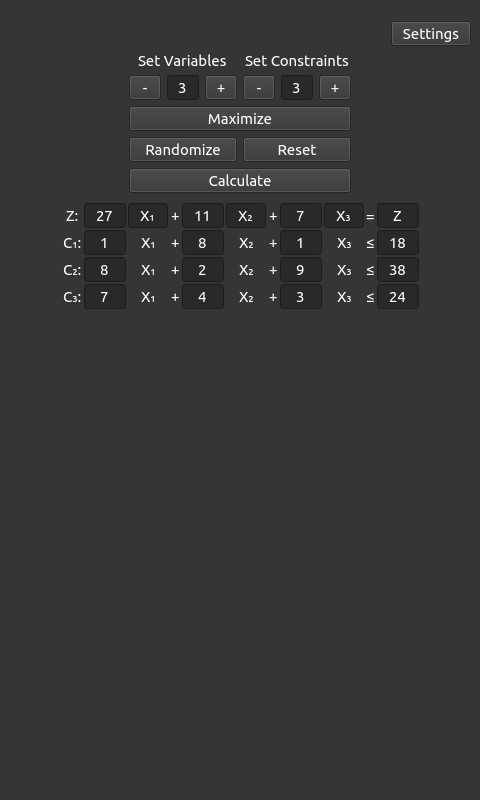
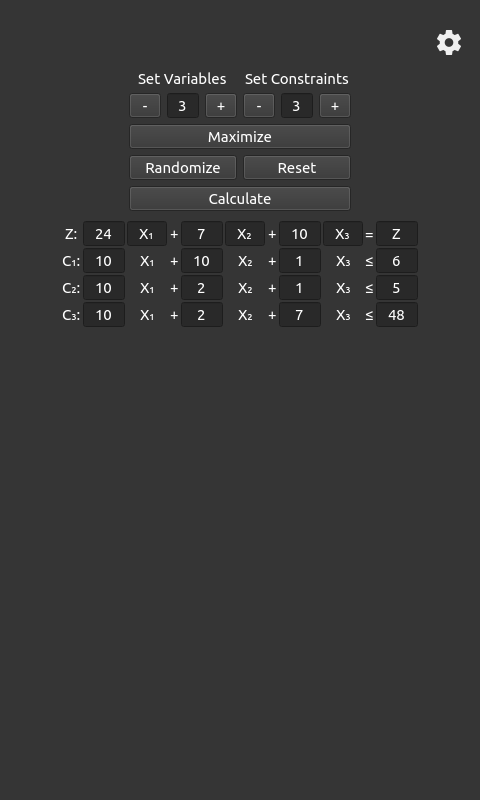
GitHub repo linked from app. Readability improvements. Updated screenshots.

diff --git a/simplex.py b/simplex.py
@@ -4,6 +4,7 @@ Made with PyQt5
 """
 
 import sys
+import webbrowser
 
 from PyQt5.QtWidgets import (QApplication, QWidget, QPushButton, QLabel, QLineEdit, QSpacerItem, QSizePolicy,
                              QFrame, QGridLayout, QScrollArea, QHBoxLayout, QVBoxLayout)
@@ -187,8 +188,8 @@ class SimplexCalculator:
         font_size_button = SSettingsButton(self.window, "Font Size")
         font_size_button.set_line_edit()
         font_size_button.line_edit.setText(str(self.DEFUALT_FONT_SIZE))
-        # Limit range to 12 through 24
         font_size_button.line_edit.editingFinished.connect(lambda: (
+            # Limit range to 12 through 24
             self.QLE_valid_range(font_size_button.line_edit, 12, 24),
             self.change_font_size(int(font_size_button.line_edit.text())),
             font_size_button.line_edit.clearFocus()))
@@ -198,7 +199,7 @@ class SimplexCalculator:
         # Opens GitHub repo.
         github_button = SSettingsButton(self.window, "Visit Simplex Calculator on GitHub")
         github_button.set_icon("github.png")
-        github_button.clicked.connect(lambda: print("Pressing Github Button. TODO: Replace this."))
+        github_button.clicked.connect(self.open_github)
         self.icon_buttons.append(github_button)
 
         ### Layouts and Widget Placement
@@ -386,14 +387,13 @@ class SimplexCalculator:
         """Toggles between maximize/minimize when self.max_min_button is pressed,
         changing inequality labels and dictating simplex calulation approach.
         """
-        if self.is_maximize:
-            self.max_min_button.setText("Minimize")
-            # Index slice to exclude first element as that is the objective function's "=".
-            for i in range(len(self.simplex_setup.SLEIneqs))[1:]:
+        # Index slice to exclude first element as that is the objective function's "=".
+        for i in range(len(self.simplex_setup.SLEIneqs))[1:]:
+            if self.is_maximize:
+                self.max_min_button.setText("Minimize")
                 self.simplex_setup.SLEIneqs[i].label.setText("≥")
-        else:
-            self.max_min_button.setText("Maximize")
-            for i in range(len(self.simplex_setup.SLEIneqs))[1:]:
+            else:
+                self.max_min_button.setText("Maximize")
                 self.simplex_setup.SLEIneqs[i].label.setText("≤")
         self.is_maximize = not self.is_maximize
 
@@ -404,7 +404,8 @@ class SimplexCalculator:
         if self.simplex_solve is not None:
             self.simplex_solve.delete()
         self.change_screens(self.soln_screen)
-        self.simplex_solve = SimplexSolve(self.window, self.soln_table_layout, self.simplex_setup, self.soln_step_label, self.is_maximize)
+        self.simplex_solve = SimplexSolve(self.window, self.soln_table_layout, self.simplex_setup,
+            self.soln_step_label, self.is_maximize)
 
     def open_settings(self) -> None:
         """Open settings menu.
@@ -431,9 +432,9 @@ class SimplexCalculator:
             button.icon.color_swap(self.is_dark_mode)
 
     def change_font_size(self, font_size: int) -> None:
-        """Changes font size via global style sheet  limited user input.
+        """Changes font size via global style sheet from limited user input.
 
-        Connected to font_size_button.
+        Connected to font_size_button in settings screen.
 
         Parameters
         ---
@@ -444,11 +445,11 @@ class SimplexCalculator:
         self.window.setStyleSheet(self.font_style + self.style_sheets[self.is_dark_mode])
 
     def open_github(self) -> None:
-        """Opens github repo in default browser.
+        """Opens Simplex Calculator's GitHub repo in the default browser.
 
         https://github.com/nonetypes/SimplexCalculator
         """
-        pass
+        webbrowser.get().open("https://github.com/nonetypes/SimplexCalculator", new = 2)
 
     def change_screens(self, new_screen: QFrame, is_going_back: bool = False) -> None:
         """Changes frame visibility to new QFrame.
@@ -468,13 +469,6 @@ class SimplexCalculator:
         new_screen.setDisabled(False)
         new_screen.show()
 
-        # When changing from settings screen back to solutions screen, prevent back button from going back to settings.
-        if self.current_screen == self.settings_screen and new_screen == self.soln_screen:
-            self.previous_screen = self.setup_screen
-        else:
-            self.previous_screen = self.current_screen
-        self.current_screen = new_screen
-
         # Create animation to make new screen "slide" into view.
         # https://forum.qt.io/topic/3709/simple-animation-not-working/3
         self.animation = QPropertyAnimation(new_screen, b"geometry")
@@ -485,13 +479,20 @@ class SimplexCalculator:
         if is_going_back:
             self.animation.setStartValue(QRect(-self.window.width(), self.current_screen.y(),
                 self.window.width(), self.window.height()))
-            self.animation.setEndValue(self.current_screen.geometry())
         # If back button was not pressed, screen will appear to slide in from right.
         else:
             self.animation.setStartValue(QRect(self.window.width(), self.current_screen.y(),
                 self.window.width(), self.window.height()))
-            self.animation.setEndValue(self.current_screen.geometry())
+
+        self.animation.setEndValue(self.current_screen.geometry())
         self.animation.start()
+
+        # When changing from settings screen back to solutions screen, prevent back button from going back to settings.
+        if self.current_screen == self.settings_screen and new_screen == self.soln_screen:
+            self.previous_screen = self.setup_screen
+        else:
+            self.previous_screen = self.current_screen
+        self.current_screen = new_screen
 
     def key_pressed(self, event):
         """Override function for main window.

diff --git a/solve.py b/solve.py
@@ -21,6 +21,8 @@ class SimplexSolve:
         layout: PyQt QGridLayout
             soln_table_layout where labels are added.
         simplex_setup: SimplexSetup
+        soln_step_label: PyQt QLabel
+            The label which displays the current step number of the total solution steps.
         is_maximize: bool
             Determines whether problem is maximization or minimization and dictates certain solution steps and labels.
             Set with maximize/minimize button on setup screen.
@@ -42,7 +44,7 @@ class SimplexSolve:
     def solve(self) -> None:
         """Applies the simplex method.
         """
-        def is_negative(matrix_row) -> bool:
+        def has_negative(matrix_row) -> bool:
             """Tests weather there is a negative number in a list of floats/ints.
             Stopping condition for simplex method.
             """
@@ -55,20 +57,19 @@ class SimplexSolve:
         matrix = deepcopy(self.soln_matrices[-1])
 
         # Continue until the bottom row is all positive.
-        while is_negative(matrix[-1]):
+        while has_negative(matrix[-1]):
             pivot_row, pivot_col, pivot = self.find_pivot(matrix)
             # Make pivot value 1 by dividing the pivot row by the pivot value.
             matrix[pivot_row] = [x/pivot for x in matrix[pivot_row]]
 
-            # TODO: Rephrase these comments to make more clear.
             # Clear the pivot column, leaving only the pivot (now 1) and making the rest zeros:
-            # Loop through each row -- excluding pivot row -- and add each component in the row by the
-            # corresponding component of the pivot row multiplied by the value of the row's component
-            # in the pivot column and flip sign of result.
+            # Loop through each row -- excluding pivot row -- and subtract each component in the row by the
+            # the scalar, which will make the pivot column component zero, multiplied by the
+            # corresponding component in the pivot row.
             for row_vector in matrix[:pivot_row] + matrix[pivot_row + 1:]:
-                val = row_vector[pivot_col]
+                scalar = row_vector[pivot_col]
                 for i in range(len(row_vector)):
-                    row_vector[i] += (-1)*val*matrix[pivot_row][i]
+                    row_vector[i] -= scalar*matrix[pivot_row][i]
             # Save completed step.
             self.soln_matrices.append(matrix)
             # Get copy of completed step.

diff --git a/styles.py b/styles.py
@@ -1,26 +1,8 @@
-"""Style sheet themes for Simplex Calculator.
+"""Color definitions and style sheets for Simplex Calculator.
 """
 
-def replace_colors(style: str, color_map: dict) -> str:
-    """Replaces color variable names in a PyQt style sheet (multi-line string) with hexidecimal color values.
-
-    Parameters
-    ---
-    style: string
-        Must be properly formatted as a PyQt style sheet
-        https://doc.qt.io/qtforpython/overviews/stylesheet-examples.html
-    color_map: dictionary
-        Used to replace variable names with hexidecimal values
-
-    Returns
-    ---
-    str
-        A style sheet string for PyQt widget.
-    """
-    for key, val in color_map.items():
-        style = style.replace(key, val)
-    return style
-
+SIMPLEX_ICON_LIGHT = "#323232"
+SIMPLEX_ICON_DARK = "#F0F0F0"
 
 light_map = {
     "bg_prime": "#F0F0F0",
@@ -31,7 +13,7 @@ light_map = {
     "border_sub": "#B9B9B9",
     "button_select": "#F0F0F0",
     "icon-select": "#D9D9D9",
-    "focus_color": "#FFFFFF"
+    "focus_color": "#FFFFFF",
 }
 
 dark_map = {
@@ -43,10 +25,8 @@ dark_map = {
     "border_sub": "#292929",
     "button_select": "#353535",
     "icon-select": "#424242",
-    "focus_color": "#292929"
+    "focus_color": "#292929",
 }
-
-        # font-size: 16px;
 
 SIMPLEX_STYLE_SHEET = ("""
     QWidget {
@@ -125,8 +105,30 @@ SIMPLEX_STYLE_SHEET = ("""
     }
 """)
 
+def replace_colors(style: str, color_map: dict) -> str:
+    """Replaces color variable names in a PyQt style sheet (multi-line string) with hexidecimal color values.
+
+    Parameters
+    ---
+    style: string
+        Must be properly formatted as a PyQt style sheet
+        https://doc.qt.io/qtforpython/overviews/stylesheet-examples.html
+    color_map: dictionary
+        Used to replace variable names with hexidecimal values
+
+    Returns
+    ---
+    str
+        A style sheet string for PyQt widget.
+    """
+    for key, val in color_map.items():
+        style = style.replace(key, val)
+    return style
+
 SIMPLEX_STYLE_LIGHT = replace_colors(SIMPLEX_STYLE_SHEET, light_map)
 SIMPLEX_STYLE_DARK = replace_colors(SIMPLEX_STYLE_SHEET, dark_map)
 
-SIMPLEX_ICON_LIGHT = "#323232"
-SIMPLEX_ICON_DARK = "#F0F0F0"
+
+if __name__ == "__main__":
+    from simplex import SimplexCalculator
+    simplex = SimplexCalculator()

diff --git a/setup.py b/setup.py
@@ -77,7 +77,8 @@ class SimplexSetup:
         # Adding variable and associated constraint widgets.
         if edit_var_num > crnt_var_num:
             for col in range(crnt_var_num, edit_var_num):
-                # Create constraints -- SLEVar object handles all constraint's in its column for variable name association.
+                # Create constraints
+                # SLEVar object handles all constraint's in its column for variable name association.
                 constraint_col = []
                 for row in range(edit_con_num):
                     # Add 1 to row to account for objective function row.
@@ -101,6 +102,7 @@ class SimplexSetup:
         order is set to order in which widgets are added to the main PyQt QWidget window.
         """
         # To correctly set tab order, widgets must be set in the same order as the intended tab order.
+        # e.g. This will NOT work as intended: .setTabOrder(B, C) then .setTabOrder(A, B)
 
         # Get a matrix of the objects themselves.
         matrix = self.get_fields(False, False)
@@ -177,11 +179,12 @@ class SimplexSetup:
         for i, widget in enumerate(self.SLEVars):
             matrix[i].append(get_component(widget))
 
-        # Value of objective inequality field should always be 0 when not the object itself as field is for naming purposes.
+        # Value of objective inequality field should always be 0
+        # when not the object itself as field is for naming purposes.
         component = 0.0 if is_floats else self.SLEIneqs[0]
         matrix[-1].append(component)
 
-        # Since matrix is currenlty the transpose, transpose it to get original matrix.
+        # Since matrix is currenlty the transpose, transpose it to get the non-transposed matrix.
         if not transpose:
             # https://stackoverflow.com/a/4937526
             matrix = list(map(list, zip(*matrix)))

diff --git a/main.py b/main.py
@@ -6,17 +6,23 @@
 # Simplex Method Calculator for educational purposes.
 # George Dantzig's simplex linear programming algorithm for solving optimization problems.
 #
-# TODO: Confirm minimize is functioning as intended.
-#       Resolve error when objective function has a value, but corresponding contraint column has 0s.
-#       Redo setup screen buttons with icons.
-#       Add header to screens which displays name and preserves settings/back buttons?
-#       More detailed README.md with screenshots and examples
-#       Replace icons.
-#       Settings:
-#           Add option to display floats instead of fractions to a given amount of decimal points
-#           Link to github
-#           Option to display solution steps on a single page
-#           Donate button?
+# TODO:
+# More detailed README.md with screenshots and examples
+## Simplex Funcionality
+# Confirm minimize is functioning as intended.
+# Resolve error when objective function has a value, but corresponding contraint column has 0s.
+# Allow negative numbers as input for constraint fields (and objetive function?)
+# Allow ability to switch inequalites of contraints.
+## UI
+# Redo setup screen buttons with icons.
+# Add header to screens which displays name and preserves settings/back buttons?
+# Allow user to name contraint rows.
+# Replace icons with own alternatives.
+# Add Dark mode icon and font size icon.
+# Settings:
+#   Add option to display floats instead of fractions to a given amount of decimal points.
+#   Option to display solution steps on a single page?
+#   Donate button?
 
 from simplex import SimplexCalculator
 

diff --git a/classes.py b/classes.py
@@ -9,7 +9,7 @@ SLEIneq: QLineEdit child
 from os import path
 
 from PyQt5.QtWidgets import (QWidget, QPushButton, QLineEdit, QLabel, QGridLayout, QComboBox,
-                            QToolButton, QSizePolicy, QHBoxLayout, QVBoxLayout)
+                             QToolButton, QSizePolicy, QHBoxLayout, QVBoxLayout)
 from PyQt5.QtGui import QRegExpValidator, QRegion, QPixmap, QColor, QIcon, QPixmap
 from PyQt5.QtCore import Qt, QRegExp
 
@@ -174,9 +174,7 @@ class SSettingsButton(QToolButton):
         # self.focusOutEvent = focus_out
         # If space bar is pressed, engage widget.
         # self.keyPressEvent = lambda event: self.line_edit.setFocus() if event.key() == Qt.Key_Space else None
-        # self.line_edit.setFocusPolicy(Qt.NoFocus)
-
-        
+        # self.line_edit.setFocusPolicy(Qt.NoFocus)        
 
     def set_combo_box(self, items: list):
         """Creates a QComboBox -- or drop down menu.
